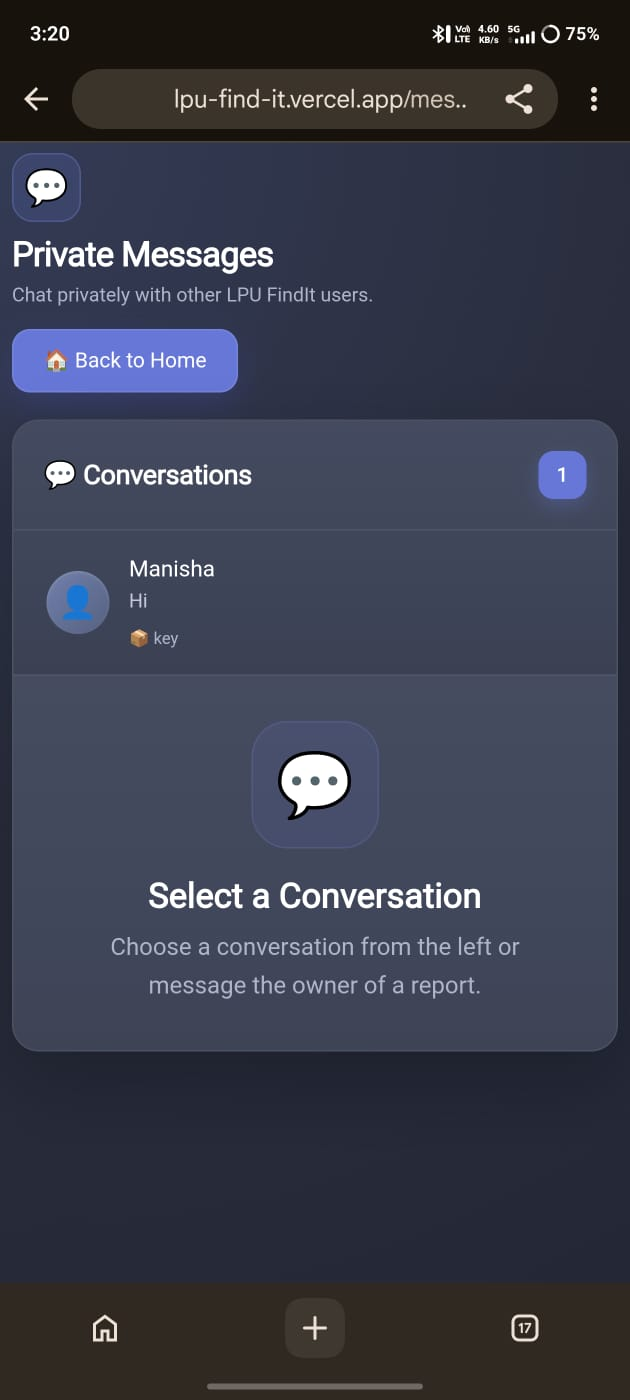
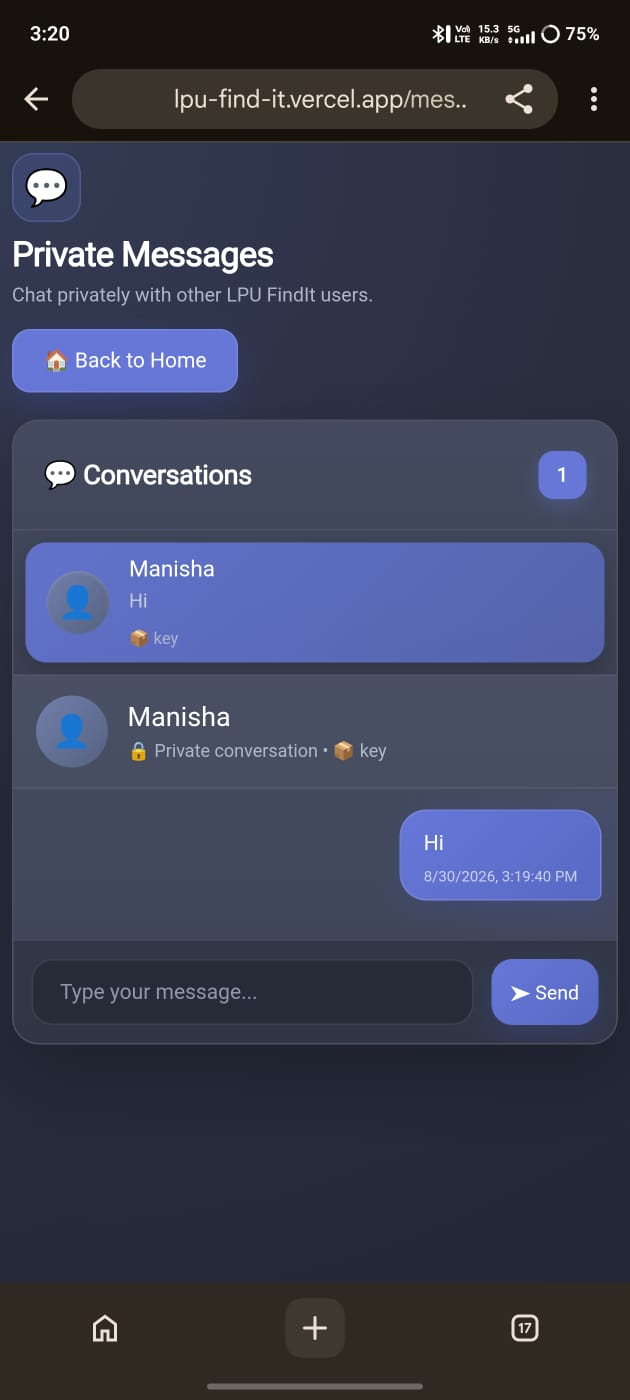
Update FindIt SEO branding

diff --git a/index.html b/index.html
@@ -16,18 +16,18 @@
     <!-- SEO -->
     <meta
       name="description"
-      content="LPU FindIt is a lost and found platform for Lovely Professional University students. Find lost items or report found items easily."
+      content="FindIt is a smart lost and found platform that helps users report lost items, report found items, and reconnect people with their belongings."
     />
 
     <meta
       name="keywords"
-      content="LPU FindIt, LPU lost and found, Lovely Professional University lost items, LPU found items, lost and found platform"
+      content="FindIt, lost and found, lost items, found items, lost and found platform, report lost item, report found item"
     />
 
-    <meta name="author" content="LPU FindIt" />
+    <meta name="author" content="FindIt" />
 
     <!-- Website Title -->
-    <title>LPU FindIt | Lost and Found Platform for Lovely Professional University</title>
+    <title>FindIt | Smart Lost & Found Platform</title>
   </head>
 
   <body>
